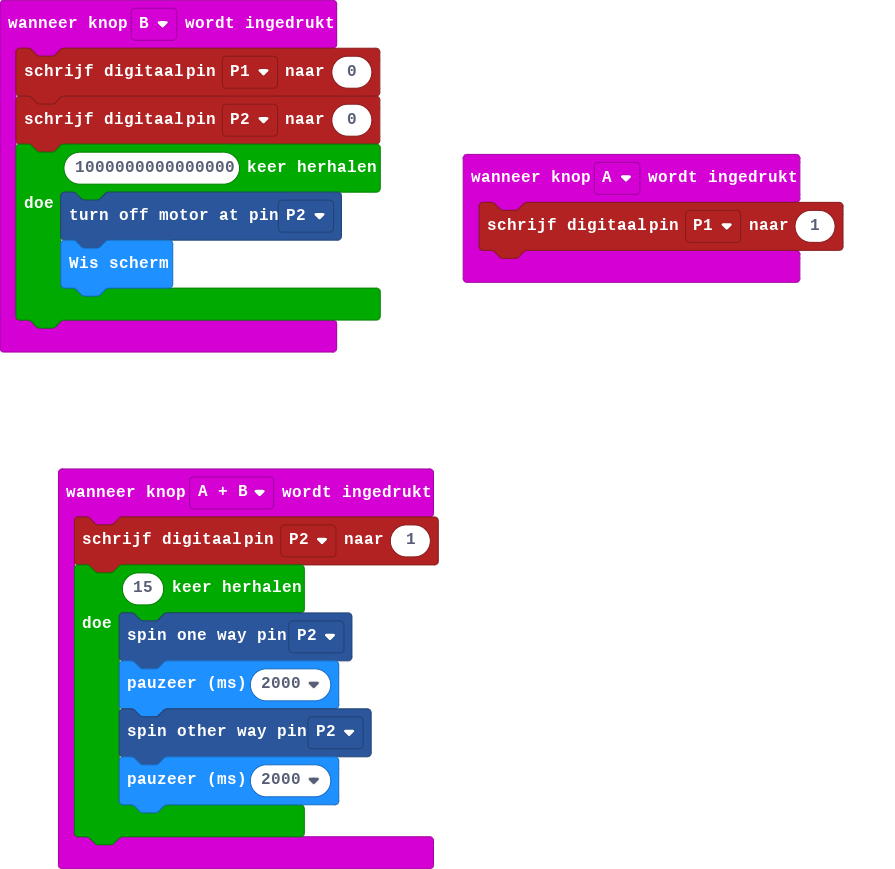
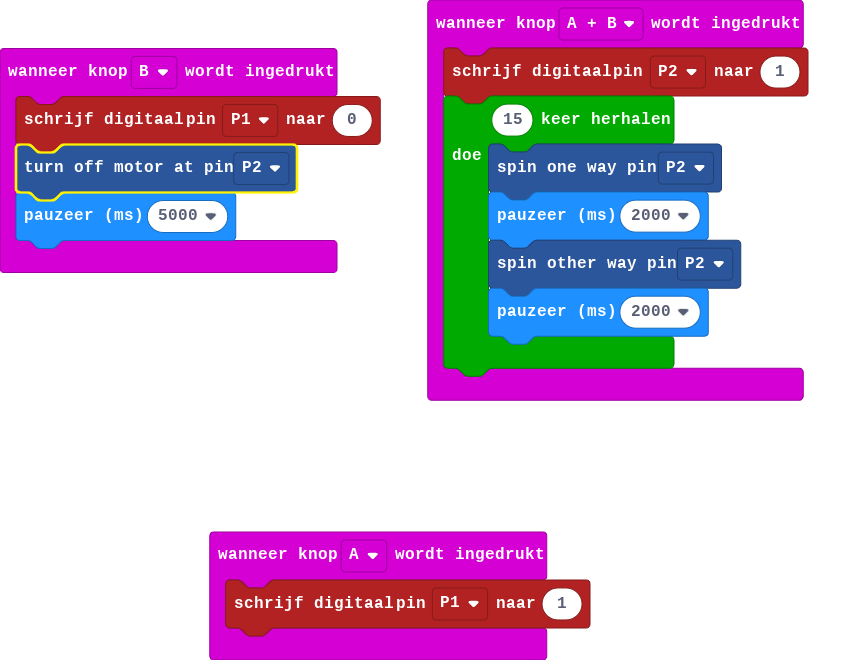
main.blocks, main.ts bijwerken

diff --git a/main.ts b/main.ts
@@ -12,9 +12,6 @@ input.onButtonPressed(Button.AB, function () {
 })
 input.onButtonPressed(Button.B, function () {
     pins.digitalWritePin(DigitalPin.P1, 0)
-    pins.digitalWritePin(DigitalPin.P2, 0)
-    for (let index = 0; index < 1000000000000000; index++) {
-        ContinuousServo.turn_off_motor(DigitalPin.P2)
-        basic.clearScreen()
-    }
+    ContinuousServo.turn_off_motor(DigitalPin.P2)
+    basic.pause(5000)
 })
